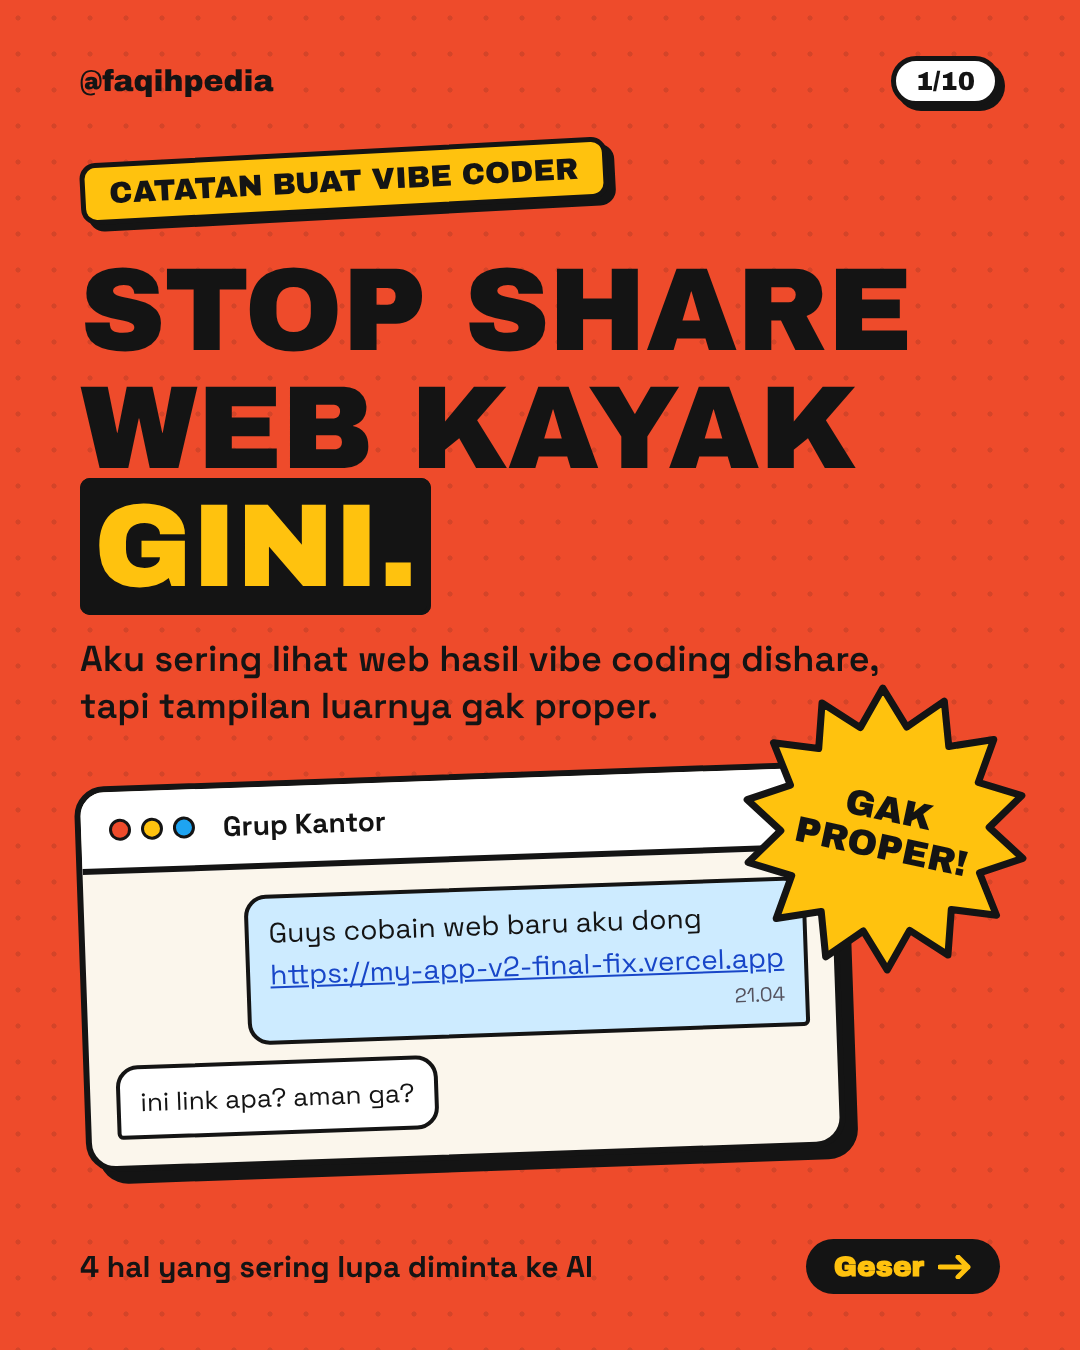
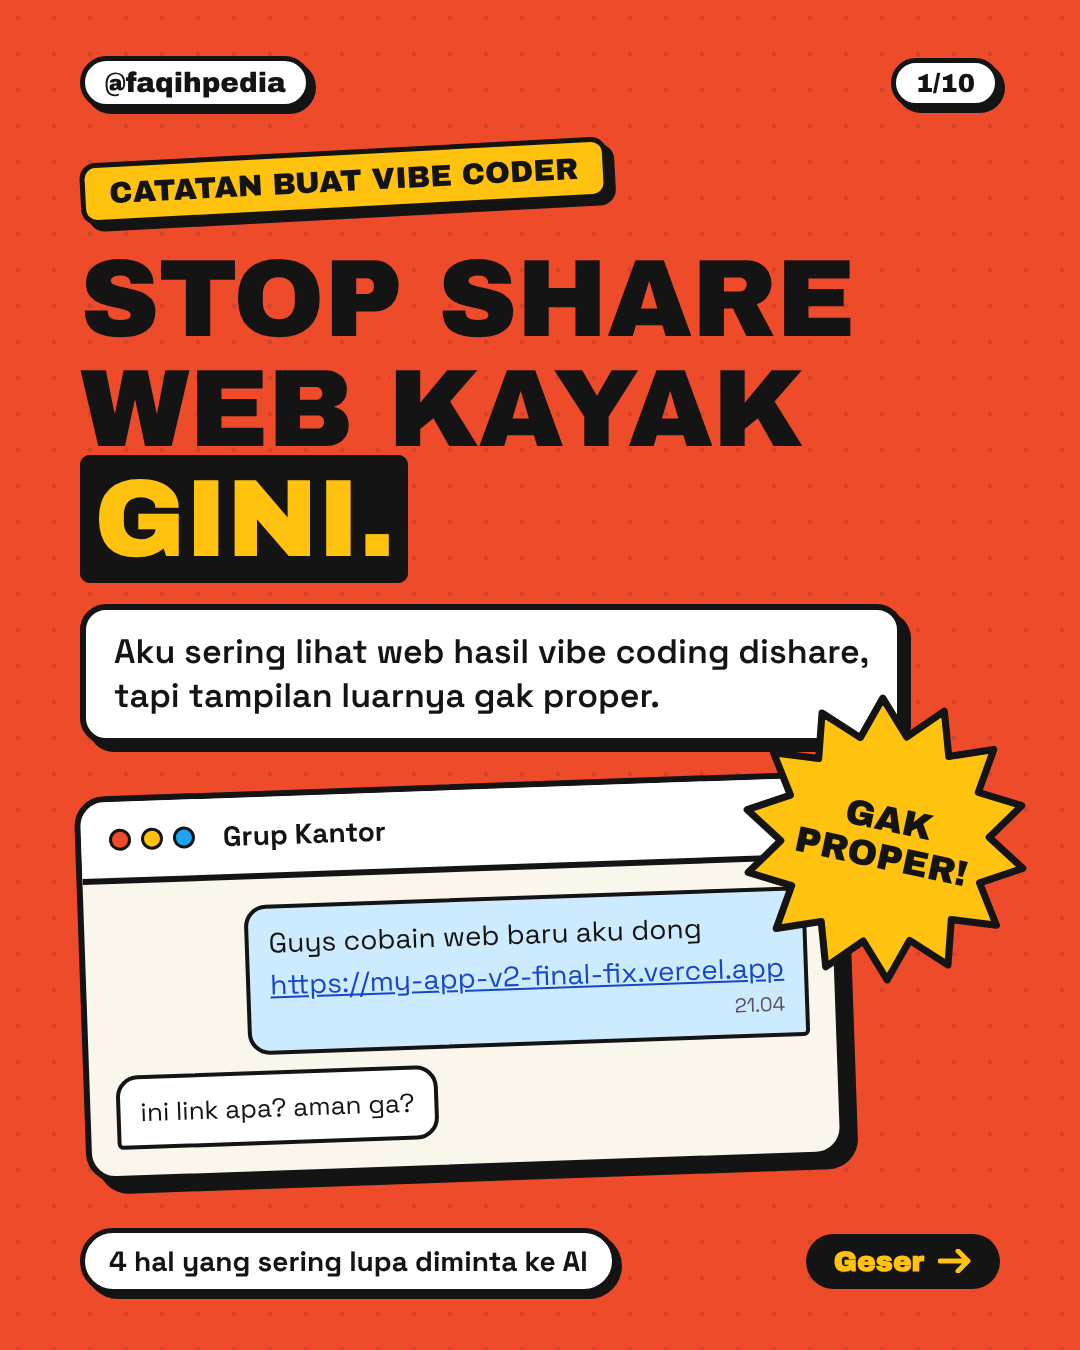
Carousel cover: put small text on white for readability
Claude-Session: https://claude.ai/code/session_018xRo3amBKB69FesK9psCXM

diff --git a/carousel-meta-tags/index.html b/carousel-meta-tags/index.html
@@ -138,15 +138,15 @@ h2 { font-family: var(--head); font-weight: 400; font-size: 84px; line-height: 1
 
 <!-- ============================================================ 1. COVER -->
 <section class="slide red" id="s1">
-  <div class="top"><div class="handle">@faqihpedia</div><div class="count">1/10</div></div>
+  <div class="top"><div class="handle count" style="font-size:28px;">@faqihpedia</div><div class="count">1/10</div></div>
 
   <div class="sticker" style="background:var(--yellow); transform:rotate(-3deg); align-self:flex-start; font-size:30px;">Catatan buat vibe coder</div>
 
-  <h1 style="margin-top:40px; font-size:118px; line-height:1;">Stop share<br>web kayak<br><span class="mark inv">gini.</span></h1>
+  <h1 style="margin-top:32px; font-size:110px; line-height:1;">Stop share<br>web kayak<br><span class="mark inv">gini.</span></h1>
 
-  <p class="lead" style="margin-top:30px; font-size:36px; font-weight:600; max-width:860px;">Aku sering lihat web hasil vibe coding dishare, tapi tampilan luarnya gak proper.</p>
+  <p class="lead box" style="margin-top:30px; font-size:34px; font-weight:600; padding:20px 28px; box-shadow:8px 8px 0 var(--ink); align-self:flex-start;">Aku sering lihat web hasil vibe coding dishare,<br>tapi tampilan luarnya gak proper.</p>
 
-  <div style="position:relative; margin-top:44px;">
+  <div style="position:relative; margin-top:40px;">
     <div class="chat" style="width:760px; transform:rotate(-2deg); background:var(--bg);">
       <div class="chat-head" style="background:var(--white); color:var(--ink); border-bottom:var(--b) solid var(--ink);">
         <span style="display:flex; gap:10px;"><i style="width:22px;height:22px;border-radius:50%;border:3px solid var(--ink);background:var(--red)"></i><i style="width:22px;height:22px;border-radius:50%;border:3px solid var(--ink);background:var(--yellow)"></i><i style="width:22px;height:22px;border-radius:50%;border:3px solid var(--ink);background:var(--blue)"></i></span>
@@ -164,7 +164,7 @@ h2 { font-family: var(--head); font-weight: 400; font-size: 84px; line-height: 1
     </div>
   </div>
 
-  <div class="bottom"><div style="font-size:30px;">4 hal yang sering lupa diminta ke AI</div><div class="swipe">Geser <svg width="34" height="24" viewBox="0 0 34 24"><path d="M2 12h28M20 2l10 10-10 10" stroke="currentColor" stroke-width="5" fill="none" stroke-linecap="round" stroke-linejoin="round"/></svg></div></div>
+  <div class="bottom"><div class="count" style="font-family:var(--body); font-weight:700; font-size:28px; padding:10px 24px;">4 hal yang sering lupa diminta ke AI</div><div class="swipe">Geser <svg width="34" height="24" viewBox="0 0 34 24"><path d="M2 12h28M20 2l10 10-10 10" stroke="currentColor" stroke-width="5" fill="none" stroke-linecap="round" stroke-linejoin="round"/></svg></div></div>
 </section>
 
 <!-- ============================================================ 2. WHAT "TAMPILAN LUAR" MEANS -->
